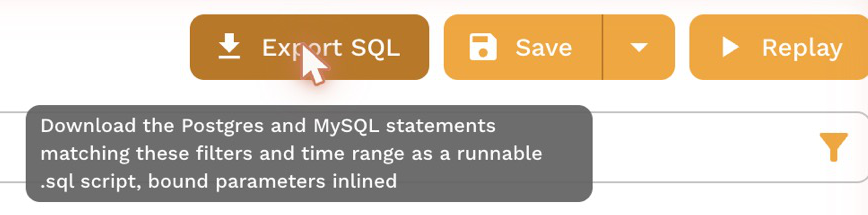
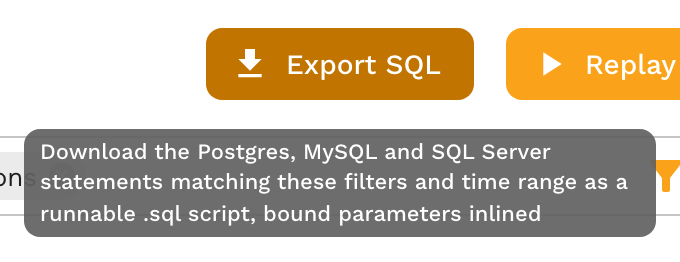
[S-14264] Name SQL Server on the Databases pages that still listed only Postgres and MySQL
db_add_row gets a SQL Server section (typed values, one per column, index,
DONE row counts, errors). The mock, schema, sql_column, Java, language
reference and database traffic pages name SQL Server, and the Export SQL
screenshot shows the current tooltip.

diff --git a/docs/guides/transformation/transforms/db_add_row.md b/docs/guides/transformation/transforms/db_add_row.md
@@ -1,17 +1,17 @@
 ---
-description: "Inject new rows into recorded PostgreSQL and MySQL response payloads using the db_add_row transform in Speedscale, with control over append/prepend/index position, multi-resultset targeting, NULL handling, and variable-substituted row values."
+description: "Inject new rows into recorded PostgreSQL, MySQL and SQL Server response payloads using the db_add_row transform in Speedscale, with control over append/prepend/index position, multi-resultset targeting, NULL handling, and variable-substituted row values."
 sidebar_position: 8
 ---
 
 # db_add_row
 
-The `db_add_row` transform inserts a new row into the result set of a recorded database response — PostgreSQL or MySQL — and emits the modified response. It is the way to add test data, simulate "one more record" scenarios, or grow a fixture row count during replay or mocking without re-recording.
+The `db_add_row` transform inserts a new row into the result set of a recorded PostgreSQL, MySQL or SQL Server response and emits the modified response. It is the way to add test data, simulate "one more record" scenarios, or grow a fixture row count during replay or mocking without re-recording.
 
 It does **not** synthesize a response from scratch. It works against an existing recorded response body, using the first existing row (when present) as a template for column types and binary-vs-string encoding, then writes the new row into the right position.
 
 - **Transform type name (config/API):** `db_add_row`
 - **Shorthand format:** `db_add_row(position=...,index=...)`
-- **Supported protocols:** PostgreSQL simple-query responses, MySQL text-protocol resultsets, MySQL binary-protocol resultsets.
+- **Supported protocols:** PostgreSQL simple-query responses, MySQL text-protocol resultsets, MySQL binary-protocol resultsets, SQL Server replies (every result set of a batch, RPC or stored procedure call).
 
 ## Quick Start
 
@@ -50,6 +50,7 @@ The transform inspects the stored response JSON and picks the handler based on t
 | Top-level `"query"` key | PostgreSQL simple-query response (`QueryResponse`) |
 | Top-level `"resultsets"` key, first entry has `"includedMetadata"` | MySQL text protocol |
 | Top-level `"resultsets"` key, no `"includedMetadata"` | MySQL binary protocol |
+| Top-level `"tokens"` key | SQL Server reply (TDS token stream) |
 | Anything else | Error: `unable to detect database tech from JSON structure` |
 
 If the detection fails, the chain returns an error and the response is left unmodified.
@@ -70,7 +71,20 @@ If the recorded PostgreSQL response ends with a `CommandComplete` message whose 
 
 Tags that don't start with `SELECT ` (e.g. `INSERT 0 1`, `UPDATE 2`) are left untouched.
 
+### SQL Server Replies
+
+A SQL Server reply follows its own rules, because each result set carries its column types:
+
+- Each column metadata token starts a result set. Without `index` the row is added to every result set of the reply; with `index` only to that one (zero-based). An `index` past the last result set changes nothing.
+- Supply exactly one value per column. A different count is an error, `result set N has X columns, got Y values`, and so is a value that does not fit its column type.
+- Values are converted to the column's type: integers, `bit` as `1`, `0`, `true` or `false`, floats, decimals and money as numbers, binary as hex with or without `0x`, `uniqueidentifier`, dates and times as text, and everything else as a string. An empty string stays an empty string; there is no way to insert NULL.
+- The DONE token that ends the result set has its row count raised by one when it carries a count, so the driver reports the new number of rows.
+- A reply with no column metadata, such as an execute sent with `no_metadata`, has no result set to add to and fails with `the sql server reply has no result set to add a row to`.
+
 ### NULL and Length Mismatches
+
+These rules are for PostgreSQL and MySQL; see [SQL Server Replies](#sql-server-replies) for SQL Server.
+
 
 | Situation | Behavior |
 |---|---|
@@ -84,22 +98,22 @@ Tags that don't start with `SELECT ` (e.g. `INSERT 0 1`, `UPDATE 2`) are left un
 "type": "db_add_row",
 "config": {
     "position": "<append|prepend|<numeric index>>",
-    "index": "<resultset index (MySQL only)>"
+    "index": "<resultset index (MySQL and SQL Server)>"
 }
 ```
 
 | Parameter | Required | Default | Description |
 |---|---|---|---|
 | `position` | No | `append` | Where to insert the new row. See [Position Semantics](#position-semantics). |
-| `index` | No | unset (all resultsets) | **MySQL only.** Which resultset to modify when the recorded response carries more than one. If unset, the row is added to every resultset. If the index is out of range, no resultset is modified. Must be a parseable integer — chain init fails with `invalid index value: ...` otherwise. |
+| `index` | No | unset (all resultsets) | **MySQL and SQL Server.** Which resultset to modify when the recorded response carries more than one. If unset, the row is added to every resultset. If the index is out of range, no resultset is modified. Must be a parseable integer; chain init fails with `invalid index value: ...` otherwise. |
 
 ### Position Semantics
 
-| `position` value | PostgreSQL behavior | MySQL behavior |
-|---|---|---|
-| `append` (default) | Insert as the last data row, immediately before the trailing `CommandComplete` message if present. | Insert as the last row of the targeted resultset(s). |
-| `prepend` | Insert as the first message in the `QueryResponse.Messages` slice — **before** any `RowDescription`. Most clients still accept this but it is unusual; consider numeric `position` to land after the row description. | Insert as the first row of the targeted resultset(s). |
-| `"0"`, `"1"`, `"2"`, … | Numeric index into the **messages slice** (not just data rows). For example, `position="1"` lands the new row after a leading `RowDescription` but before the first existing `DataRow`. Out-of-range or negative indices fall back to `append`. | Numeric index into the **rows slice** of the targeted resultset(s). Out-of-range falls back to `append`. |
+| `position` value | PostgreSQL behavior | MySQL behavior | SQL Server behavior |
+|---|---|---|---|
+| `append` (default) | Insert as the last data row, immediately before the trailing `CommandComplete` message if present. | Insert as the last row of the targeted resultset(s). | Insert after the last row of the targeted result set(s), or right after the column metadata when the set has no rows. |
+| `prepend` | Insert as the first message in the `QueryResponse.Messages` slice, **before** any `RowDescription`. Most clients still accept this but it is unusual; consider numeric `position` to land after the row description. | Insert as the first row of the targeted resultset(s). | Insert right after the column metadata, as the first row. |
+| `"0"`, `"1"`, `"2"`, … | Numeric index into the **messages slice** (not just data rows). For example, `position="1"` lands the new row after a leading `RowDescription` but before the first existing `DataRow`. Out-of-range or negative indices fall back to `append`. | Numeric index into the **rows slice** of the targeted resultset(s). Out-of-range falls back to `append`. | Zero-based row index; the row count itself appends. A negative or larger index is an error. |
 
 The PostgreSQL numeric-index semantics differ from MySQL's — Postgres counts messages (which interleaves `RowDescription`, `DataRow`s, and `Complete`), MySQL counts rows. When in doubt for PostgreSQL, use `append` and rely on the automatic `Complete`-tag-preserving placement.
 
@@ -206,16 +220,16 @@ The cache variables are resolved when `db_add_row.Insert` runs, so values learne
    The transform detects and modifies simple-query responses (top-level `"query"`). Extended-query responses with a different top-level shape will fall into the `unable to detect database tech` branch.
 
 4. **"It re-types the new row's values from the supplied strings."**
-   No. New values are always written as strings (`AsString` for both Postgres and MySQL). The recorded **column type** is copied across (for MySQL) so the wire format reads correctly; the **value encoding** is string-only. For PostgreSQL, the per-column choice between `asString` and `asBytes` is taken from the template row.
+   For SQL Server, yes: each value is converted to its column's type. For PostgreSQL and MySQL, no. New values are always written as strings (`AsString` for both Postgres and MySQL). The recorded **column type** is copied across (for MySQL) so the wire format reads correctly; the **value encoding** is string-only. For PostgreSQL, the per-column choice between `asString` and `asBytes` is taken from the template row.
 
 5. **"`index` works on PostgreSQL too."**
-   No. `index` is MySQL-only. PostgreSQL responses are single result sets in this transform; `index` is silently ignored.
+   No. `index` works on MySQL and SQL Server only. PostgreSQL responses are single result sets in this transform; `index` is silently ignored.
 
 6. **"An empty string inserts a literal empty value."**
-   No. An empty supplied value is treated as NULL. Use a placeholder if your engine distinguishes the two.
+   For SQL Server, yes. For PostgreSQL and MySQL, no: an empty supplied value is treated as NULL. Use a placeholder if your engine distinguishes the two.
 
 7. **"It modifies the row count metadata too."**
-   Only for PostgreSQL `Complete` tags that start with `SELECT `. MySQL row counts are derived from the resultset rows themselves and update automatically. PostgreSQL `INSERT`/`UPDATE`/`DELETE` tags are left alone.
+   Only for PostgreSQL `Complete` tags that start with `SELECT `. MySQL row counts are derived from the resultset rows themselves and update automatically. PostgreSQL `INSERT`/`UPDATE`/`DELETE` tags are left alone. A SQL Server DONE token that carries a row count is raised by one.
 
 ## Troubleshooting
 
@@ -231,6 +245,10 @@ The cache variables are resolved when `db_add_row.Insert` runs, so values learne
 | Numeric `position` lands in the wrong place on PostgreSQL | Index counts all messages, not just data rows | Use `append`/`prepend`, or pick an index that accounts for `RowDescription` |
 | MySQL row added to every resultset when only one was wanted | `index` is unset | Set `index` to the target resultset's zero-based position |
 | MySQL row not added at all when `index` is set | Out-of-range index | Check the resultset count; out-of-range silently skips |
+| Runtime: `result set N has X columns, got Y values` | SQL Server needs one value per column | Supply exactly as many values as the result set has columns |
+| Runtime: `result set N column C: "..." is not an integer` (or a bit, or a number) | The value does not fit the SQL Server column type | Supply text the column type accepts |
+| Runtime: `the sql server reply has no result set to add a row to` | The reply has no column metadata, such as a `no_metadata` execute or a statement that returns no rows | Apply the transform to a reply that returns a result set |
+| Runtime: `invalid position "..." for a result set of N rows` | A SQL Server `position` past the row count or negative | Use `append`, `prepend` or an index up to the row count |
 
 ## Related Transforms
 

diff --git a/docs/guides/databases/mock-a-database.md b/docs/guides/databases/mock-a-database.md
@@ -1,5 +1,5 @@
 ---
-description: "How Speedscale and proxymock match Postgres and MySQL mocks, what they ignore by default, and the SQL transforms that make a mock match on the values that matter."
+description: "How Speedscale and proxymock match Postgres, MySQL and SQL Server mocks, what they ignore by default, and the SQL transforms that make a mock match on the values that matter."
 sidebar_position: 7
 ---
 
@@ -9,7 +9,7 @@ When your app queries Postgres, MySQL or SQL Server during a replay, the mock se
 
 ## What a SQL mock matches on
 
-A Postgres or MySQL mock matches on the kind of message (a query, a prepare, an execute, and so on) and on the SQL statement, normalized so that whitespace and comments do not matter.
+A Postgres, MySQL or SQL Server mock matches on the kind of message (a query or batch, a prepare, an execute, an RPC such as `sp_executesql`, and so on) and on the SQL statement, normalized so that whitespace and comments do not matter.
 
 Two things are deliberately left out:
 
@@ -41,7 +41,7 @@ The SQL transforms change only the mock signature, the key the mock server match
 
 Three SQL extractors let the rest of the transform library work on database traffic:
 
-- [`sql_query`](../transformation/extractors/sql_query.md) reads the statement of any Postgres or MySQL request.
+- [`sql_query`](../transformation/extractors/sql_query.md) reads the statement of any Postgres, MySQL or SQL Server request.
 - [`sql_literal`](../transformation/extractors/sql_literal.md) reads or rewrites one literal in a statement, for example to send a new unique value on every replay.
 - [`sql_column`](../transformation/extractors/sql_column.md) reads or rewrites one cell of a query result, so `date` or `rand_string` can fix up timestamps and generated ids in mock responses.
 
@@ -86,5 +86,5 @@ An id that was never recorded still gets an answer. The mock server drops the ke
 ## Limits
 
 - `sql_column` changes text-format cells only. Postgres drivers such as pgx often ask for binary results on prepared statements, and those cells are skipped.
-- `sql_column` finds columns by name only where the response carries column names: a Postgres simple query or any MySQL result. Select Postgres prepared-statement columns by position.
+- `sql_column` finds columns by name only where the response carries column names: a Postgres simple query, any MySQL result, or a SQL Server result other than a `no_metadata` execute. Select Postgres prepared-statement columns, and the columns of a SQL Server execute that reuses earlier metadata, by position.
 - `sql_literal` counts string and number literals. MySQL strings in double quotes are read as identifiers and are not counted.

diff --git a/docs/concepts/database-traffic.md b/docs/concepts/database-traffic.md
@@ -50,7 +50,7 @@ Connection facts (user, database, application, session) need a capture from prox
 - **Locally**, `proxymock record --map` listens on a local port and forwards to the real database, and your app connects to that port. See [Record your database](../proxymock/databases/record/postgresql.md).
 - **In Kubernetes**, the Speedscale operator records database calls with the rest of a workload's traffic, through its sidecar or the [eBPF collector](/reference/ebpf-traffic-collection), with no change to the app.
 
-Decoding SQL needs the conversation in clear text where it is recorded. Locally, connect your app to proxymock without TLS for the recording, for example with `sslmode=disable` for Postgres or `ssl-mode=DISABLED` for MySQL. The eBPF collector reads Postgres and MySQL TLS traffic before it is encrypted.
+Decoding SQL needs the conversation in clear text where it is recorded. Locally, connect your app to proxymock without TLS for the recording, for example with `sslmode=disable` for Postgres or `ssl-mode=DISABLED` for MySQL. The eBPF collector reads Postgres and MySQL TLS traffic before it is encrypted. SQL Server connections can stay encrypted: proxymock, and the sidecar with outbound TLS interception on, decrypt them; see [Record SQL Server](../proxymock/databases/record/sqlserver.md#encryption).
 
 SQL Server is recorded through proxymock or the sidecar, which decrypt encrypted connections the way they decrypt HTTPS, when the driver trusts the proxymock or Speedscale certificate authority. The sidecar needs outbound TLS interception for this; without it, a connection that encrypts only its login is recorded without the user and application name, and a fully encrypted one records only its opening handshake. [Record SQL Server](../proxymock/databases/record/sqlserver.md) shows the settings for each driver and the limits.
 

diff --git a/docs/guides/transformation/extractors/sql_column.md b/docs/guides/transformation/extractors/sql_column.md
@@ -32,7 +32,7 @@ It applies to responses only. NULL extracts as an empty value and stays NULL whe
 ### Limits
 
 - Only text-format cells can be read and changed. Postgres drivers such as pgx often ask for binary results on prepared statements, and the extractor skips those cells.
-- Column names are only available where the response carries them: a Postgres simple query or any MySQL result. A Postgres prepared statement describes its columns in a separate message, so select its columns by position.
+- Column names are only available where the response carries them: a Postgres simple query, any MySQL result, or a SQL Server result that starts with its column metadata. A Postgres prepared statement describes its columns in a separate message, and a SQL Server execute sent with `no_metadata` reuses the metadata of an earlier one, so select their columns by position.
 - A MySQL prepared statement returns binary rows, where each cell keeps its column's type. A new value that does not fit the type, such as text in an integer column, is refused and the cell keeps its recorded value.
 - A name selects the first column with that name. When a join returns two columns with the same name, select the later ones by position.
 

diff --git a/docs/guides/databases/export-sql-script.md b/docs/guides/databases/export-sql-script.md
@@ -13,7 +13,7 @@ It is the database counterpart of exporting a trace as a script in SQL Server Pr
 
 Filter the grid to the statements you want, then choose **Export SQL** next to **Save** and **Replay**. The script holds the Postgres, MySQL and SQL Server statements that match the current filters and time range, so filter first to narrow it to a service, a table, a session or an incident's few minutes. [Watch live SQL](./watch-live-sql.md) and [Find statements with filters](./find-statements.md) show how.
 
-![The Traffic toolbar with the pointer on Export SQL, next to Save and Replay, and its tooltip: download the Postgres and MySQL statements matching these filters and time range as a runnable .sql script, bound parameters inlined](./export-sql-script/export-button.png)
+![The Traffic toolbar with Export SQL next to Replay, and its tooltip: download the Postgres, MySQL and SQL Server statements matching these filters and time range as a runnable .sql script, bound parameters inlined](./export-sql-script/export-button.png)
 
 ## From one connection
 

diff --git a/docs/guides/databases/inferred-schema.md b/docs/guides/databases/inferred-schema.md
@@ -7,7 +7,7 @@ description: "See the PostgreSQL, MySQL and SQL Server tables and columns a serv
 
 A snapshot with database traffic shows the tables and columns its statements read and write, worked out from the traffic itself. You see the part of the schema a service actually depends on, with column types, keys and how often each column is read and written, without a connection to the database, a schema dump or a migration history.
 
-Use it to learn an unfamiliar service, to check which columns a migration would affect, to see which service writes a table, and to know what a test database needs before you mock or replay against one (mocking and replay cover Postgres and MySQL).
+Use it to learn an unfamiliar service, to check which columns a migration would affect, to see which service writes a table, and to know what a test database needs before you mock or replay against one (mocking and replay cover Postgres, MySQL and SQL Server).
 
 ## Open it
 

diff --git a/docs/proxymock/guides/java.md b/docs/proxymock/guides/java.md
@@ -145,7 +145,7 @@ proxymock mock --in ./proxymock/java-db --no-passthrough \
 
 Run your app with the same local JDBC URL. For databases using TLS, preserve the driver's trust and hostname-verification requirements; changing the URL to `localhost` can affect the name the driver verifies. Follow the protocol-specific guide for TLS configuration.
 
-See [PostgreSQL](../databases/record/postgresql.md), [MySQL](../databases/record/mysql.md), and [MongoDB](../databases/record/mongodb.md) for database details. A mapping handles routing; it does not remove authentication or protocol-specific setup requirements.
+See [PostgreSQL](../databases/record/postgresql.md), [MySQL](../databases/record/mysql.md), [SQL Server](../databases/record/sqlserver.md) and [MongoDB](../databases/record/mongodb.md) for database details. A mapping handles routing; it does not remove authentication or protocol-specific setup requirements.
 
 ## Run with mocks in CI {#ci}
 

diff --git a/docs/proxymock/databases/index.md b/docs/proxymock/databases/index.md
@@ -60,7 +60,7 @@ Since 2.5.1152, **Export SQL script** in the Requests tab's Actions menu, **Expo
 
 ## Mock the database
 
-`proxymock mock` answers your app's Postgres, MySQL, MongoDB and Redis calls from the recording, so the app runs with no database. [Mock a database](../../guides/databases/mock-a-database.md) explains what a SQL mock matches on and how to tune it, and [Improve Mock Match Rate with AI](../guides/mock-match-rate.md) fixes the calls that miss.
+`proxymock mock` answers your app's Postgres, MySQL, SQL Server, MongoDB and Redis calls from the recording, so the app runs with no database. [Mock a database](../../guides/databases/mock-a-database.md) explains what a SQL mock matches on and how to tune it, and [Improve Mock Match Rate with AI](../guides/mock-match-rate.md) fixes the calls that miss.
 
 ## Load and regression test the database
 

diff --git a/docs/proxymock/getting-started/language-reference.md b/docs/proxymock/getting-started/language-reference.md
@@ -54,7 +54,7 @@ proxymock record --map 65432=postgres://localhost:5432
 proxymock record --map 1443=https://httpbin.org:443
 ```
 
-For more examples, see the [Redis mocking guide](/proxymock/databases/record/redis), [MongoDB guide](../databases/record/mongodb.md), [MySQL guide](../databases/record/mysql.md), [PostgreSQL guide](../databases/record/postgresql.md), and [Kafka guide](/guides/message-brokers/kafka).
+For more examples, see the [Redis mocking guide](/proxymock/databases/record/redis), [MongoDB guide](../databases/record/mongodb.md), [MySQL guide](../databases/record/mysql.md), [PostgreSQL guide](../databases/record/postgresql.md), [SQL Server guide](../databases/record/sqlserver.md), and [Kafka guide](/guides/message-brokers/kafka).
 
 <Tabs groupId="language">
 <TabItem value="golang" label="Go">

diff --git a/docs/proxymock/databases/mock-a-database.md b/docs/proxymock/databases/mock-a-database.md
@@ -1,6 +1,6 @@
 ---
 title: Mock a database
-description: "Run your app against a mock of its PostgreSQL, MySQL, MongoDB or Redis database built from a proxymock recording, so tests and AI coding assistants run with no database at all."
+description: "Run your app against a mock of its PostgreSQL, MySQL, SQL Server, MongoDB or Redis database built from a proxymock recording, so tests and AI coding assistants run with no database at all."
 ---
 
 # Mock a database
